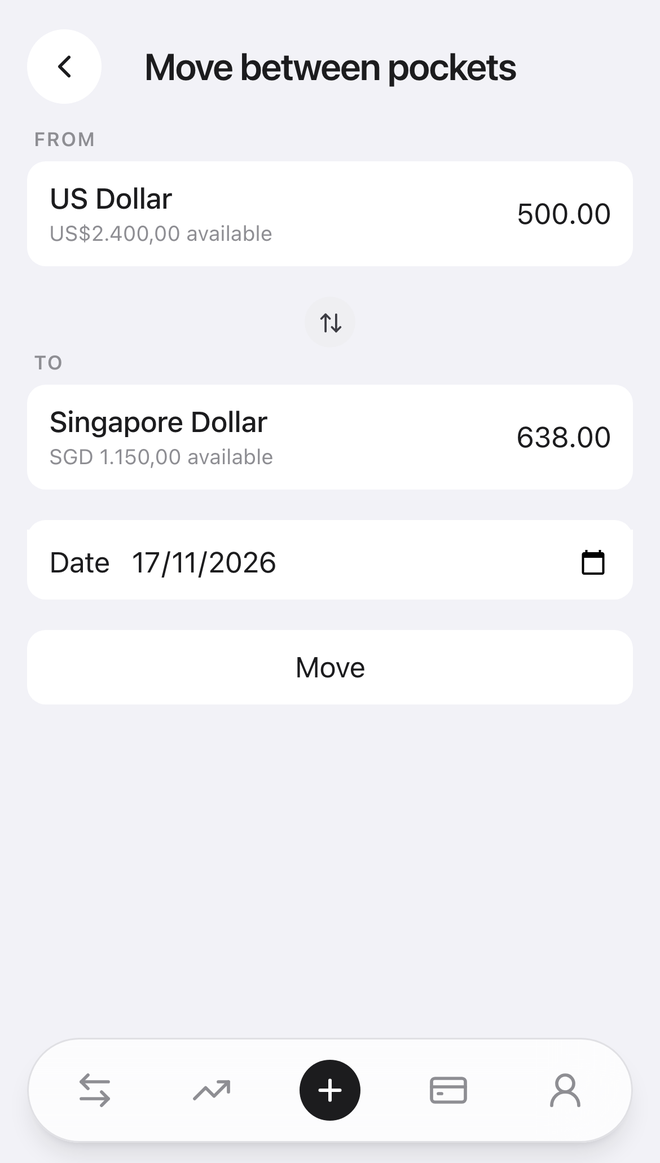
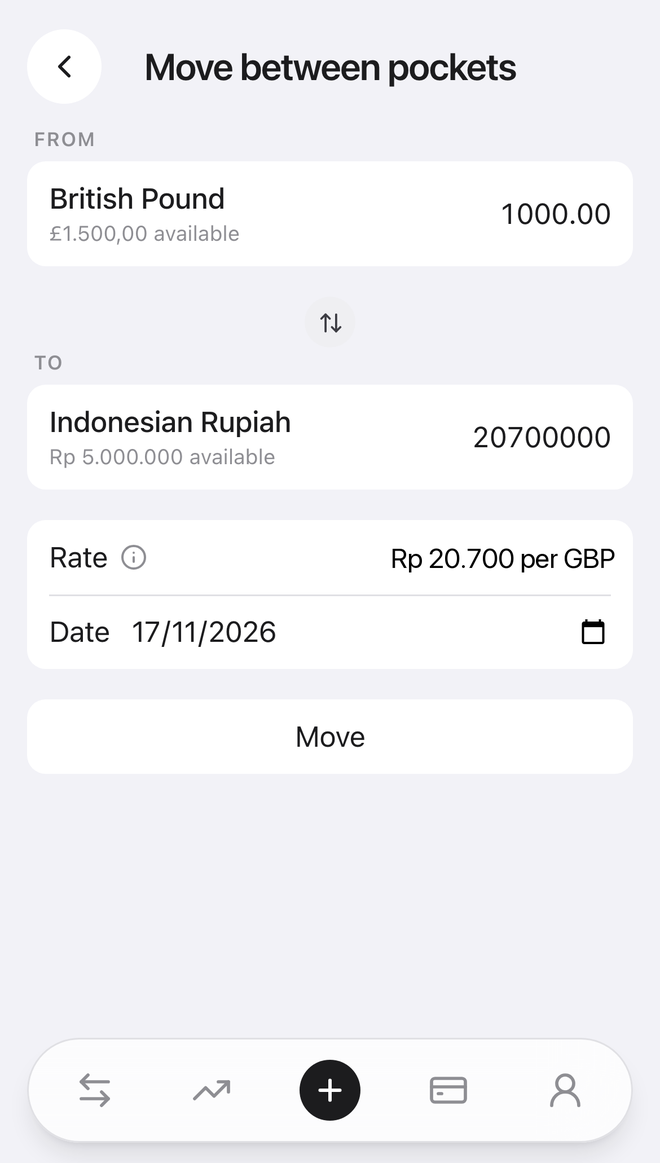
Mockups: Move between pockets before/after (real), and three tighter layouts A/B/C

diff --git a/docs/mockups/2026-11-17-move-pockets-layout.html b/docs/mockups/2026-11-17-move-pockets-layout.html
@@ -1,0 +1,64 @@
+<!doctype html><html><head><meta charset="utf-8"><title>Move page layouts</title><style>
+body{margin:0;padding:24px;font:15px -apple-system,system-ui,sans-serif;background:#e5e5ea;color:#000}
+h1{font-size:22px;margin:0 0 4px}.sub{color:#555;margin:0 0 18px;max-width:1150px;line-height:1.45}
+.row{display:flex;gap:22px;flex-wrap:wrap;align-items:flex-start}.col{width:330px}.cap{font-weight:700;margin:0 0 4px}.note{font-size:13px;color:#555;margin:0 0 10px;min-height:54px;line-height:1.4}
+.shot{width:330px;border-radius:24px;box-shadow:0 1px 3px rgba(0,0,0,.15);display:block}
+.lab{display:inline-block;font-size:10px;font-weight:800;color:#fff;border-radius:4px;padding:1px 6px;margin-right:6px;vertical-align:2px}.t{background:#8e8e93}.n{background:#1a7f37}
+.ph{width:390px;zoom:.846;background:#f2f2f7;border-radius:28px;box-shadow:0 1px 3px rgba(0,0,0,.15);padding:14px 0 0;height:688px;box-sizing:border-box;position:relative;overflow:hidden;font-size:17px}
+.hd{display:flex;align-items:center;gap:16px;padding:0 12px 18px}.hd b{font-size:22px;font-weight:600}.circ{width:44px;height:44px;border-radius:50%;background:#fff;display:flex;align-items:center;justify-content:center;font-size:20px}
+.pn{background:#fff;border-radius:14px;margin:0 12px}
+.box{display:flex;align-items:center;padding:10px 14px;min-height:44px}.box .g{flex:1;min-width:0}.s{font-size:13px;color:#8e8e93}.amt{font-size:19px;font-variant-numeric:tabular-nums}
+.swap{width:32px;height:32px;border-radius:50%;background:#e4e4e9;display:flex;align-items:center;justify-content:center;font-size:15px;margin:0 auto}
+.kv{display:flex;align-items:center;padding:0 14px;min-height:48px}.kv+.kv{border-top:.5px solid #d8d8dc}.kv span:first-child{flex:1}.gr{color:#8e8e93}
+.btn{background:#fff;border-radius:14px;margin:14px 12px 0;text-align:center;padding:14px 0}
+.dock{position:absolute;left:12px;right:12px;bottom:14px;height:64px;border-radius:32px;background:#fff;box-shadow:0 2px 10px rgba(0,0,0,.08);display:flex;align-items:center;justify-content:space-around;color:#3c3c43;font-size:22px}
+.dock i{width:40px;height:40px;border-radius:50%;background:#111;color:#fff;font-style:normal;display:flex;align-items:center;justify-content:center}
+.fi{width:30px;height:30px;border-radius:50%;background:#f0f0f3;display:flex;align-items:center;justify-content:center;font-size:15px;flex-shrink:0;margin-right:12px}
+.fr{display:flex;align-items:stretch;padding-left:14px}.fr .fi{align-self:center}.fr .c{flex:1;display:flex;align-items:center;min-height:50px;padding-right:14px}.fr+.fr .c{border-top:.5px solid #d8d8dc}
+.pair{display:flex;align-items:center;flex:1;gap:10px}.pair .bar{width:1px;height:26px;background:#d8d8dc}
+.step{display:flex;align-items:center;gap:8px;flex:1}.step span{background:#f0f0f3;border-radius:10px;padding:7px 0;flex:1;text-align:center;font-size:15px}.step i{font-style:normal;width:30px;height:30px;border-radius:50%;background:#f0f0f3;display:flex;align-items:center;justify-content:center}
+</style></head><body>
+<h1>Move between pockets: three tighter layouts</h1>
+<p class="sub">Invented example: BCA with a GBP pocket (£1.500) and an IDR pocket (Rp 5.000.000); £1.000 out, Rp 20.700.000 in. All three: no FROM / TO words above the boxes, slimmer boxes, a wider gap with the swap between them, amounts written with dots, Rate as "Rp 20.700 per GBP" (BCA's rate, from the two amounts), Cost and Exchange gone. The first picture is today's real screen.</p>
+<div class="row">
+ <div class="col"><p class="cap"><span class="lab t">TODAY (144)</span>Real screen</p><p class="note">FROM / TO above tall boxes; amounts without dots.</p><img class="shot" src="move/now-144.png"></div>
+
+ <div class="col"><p class="cap"><span class="lab n">A</span>Two slim boxes, no labels</p><p class="note">The ⇅ between the boxes shows the direction; nothing above them. Closest to today.</p>
+  <div class="ph">
+   <div class="hd"><span class="circ">‹</span><b>Move between pockets</b></div>
+   <div class="pn"><div class="box"><div class="g">British Pound<div class="s">£1.500,00 available</div></div><span class="amt">1.000,00</span></div></div>
+   <div style="padding:18px 0"><div class="swap">⇅</div></div>
+   <div class="pn"><div class="box"><div class="g">Indonesian Rupiah<div class="s">Rp 5.000.000 available</div></div><span class="amt">20.700.000</span></div></div>
+   <div class="pn" style="margin-top:22px"><div class="kv"><span>Rate <span class="gr">ⓘ</span></span><span>Rp 20.700 per GBP</span></div><div class="kv"><span>Date</span><span>17/11/2026 &nbsp;▦</span></div></div>
+   <div class="btn">Move</div>
+   <div class="dock"><span>⇆</span><span>↗</span><i>＋</i><span>▭</span><span>◯</span></div>
+  </div></div>
+
+ <div class="col"><p class="cap"><span class="lab n">B</span>One box, swap on the line</p><p class="note">Both pockets in one box; the ⇅ sits on the line between them. "From" / "To" as the grey word under each name.</p>
+  <div class="ph">
+   <div class="hd"><span class="circ">‹</span><b>Move between pockets</b></div>
+   <div class="pn" style="position:relative">
+    <div class="box" style="min-height:58px"><div class="g">British Pound<div class="s">From · £1.500,00 available</div></div><span class="amt">1.000,00</span></div>
+    <div style="border-top:.5px solid #d8d8dc;margin:0 14px"></div>
+    <div class="swap" style="position:absolute;left:50%;top:50%;transform:translate(-50%,-50%);background:#fff;border:.5px solid #d8d8dc">⇅</div>
+    <div class="box" style="min-height:58px"><div class="g">Indonesian Rupiah<div class="s">To · Rp 5.000.000 available</div></div><span class="amt">20.700.000</span></div>
+   </div>
+   <div class="pn" style="margin-top:22px"><div class="kv"><span>Rate <span class="gr">ⓘ</span></span><span>Rp 20.700 per GBP</span></div><div class="kv"><span>Date</span><span>17/11/2026 &nbsp;▦</span></div></div>
+   <div class="btn">Move</div>
+   <div class="dock"><span>⇆</span><span>↗</span><i>＋</i><span>▭</span><span>◯</span></div>
+  </div></div>
+
+ <div class="col"><p class="cap"><span class="lab n">C</span>Like the Transfer screen</p><p class="note">The same rows as ＋ › Transfer: ↗ From, ↙ To, both amounts on one row, Rate, the ‹ date › stepper.</p>
+  <div class="ph">
+   <div class="hd"><span class="circ">‹</span><b>Move between pockets</b></div>
+   <div class="pn">
+    <div class="fr"><span class="fi">↗</span><div class="c"><span style="flex:1">British Pound</span><span class="gr" style="font-size:15px">From ›</span></div></div>
+    <div class="fr"><span class="fi">↙</span><div class="c"><span style="flex:1">Indonesian Rupiah</span><span class="gr" style="font-size:15px">To ›</span></div></div>
+    <div class="fr"><span class="fi">🇬🇧</span><div class="c"><div class="pair"><span><span class="gr" style="font-size:14px">GBP</span> 1.000,00</span><span class="bar"></span><span><span class="gr" style="font-size:14px">IDR</span> 20.700.000</span></div></div></div>
+    <div class="fr"><span class="fi">%</span><div class="c"><span style="flex:1">Rate</span><span>Rp 20.700 per GBP</span></div></div>
+    <div class="fr"><span class="fi">▦</span><div class="c"><div class="step"><i>‹</i><span>Tue, 17 Nov 2026</span><i>›</i></div></div></div>
+   </div>
+   <div class="btn">Move</div>
+   <div class="dock"><span>⇆</span><span>↗</span><i>＋</i><span>▭</span><span>◯</span></div>
+  </div></div>
+</div></body></html>

diff --git a/docs/mockups/2026-11-17-move-pockets.html b/docs/mockups/2026-11-17-move-pockets.html
@@ -1,13 +1,14 @@
 <!doctype html><html><head><meta charset="utf-8"><title>Move between pockets</title><style>
 body{margin:0;padding:24px;font:15px -apple-system,system-ui,sans-serif;background:#e5e5ea}
-h1{font-size:22px;margin:0 0 4px}.sub{color:#555;margin:0 0 18px;max-width:900px;line-height:1.45}
-.row{display:flex;gap:24px;flex-wrap:wrap}.col{width:330px}.cap{font-weight:700;margin:0 0 4px}.note{font-size:13px;color:#555;margin:0 0 10px;min-height:36px;line-height:1.4}
+h1{font-size:22px;margin:0 0 4px}.sub{color:#555;margin:0 0 18px;max-width:1050px;line-height:1.45}
+.row{display:flex;gap:24px;flex-wrap:wrap}.col{width:330px}.cap{font-weight:700;margin:0 0 4px}.note{font-size:13px;color:#555;margin:0 0 10px;min-height:54px;line-height:1.4}
 img{width:330px;border-radius:24px;box-shadow:0 1px 3px rgba(0,0,0,.15);display:block}
 .lab{display:inline-block;font-size:10px;font-weight:800;color:#fff;border-radius:4px;padding:1px 6px;margin-right:6px;vertical-align:2px}.t{background:#8e8e93}.n{background:#1a7f37}
 </style></head><body>
-<h1>Move between pockets: the Rate row</h1>
-<p class="sub">The Move screen is for one account that holds several currencies (pockets), e.g. a "Valas" account with USD and SGD: wallet › the account › Move. Invented example: move US$500 to the SGD pocket, S$638 arrives. Build 144 already removed the Cost and Exchange loss lines here; one Rate row is left. A transfer from GBP BCA to IDR BCA (two accounts) uses the Transfer screen, not this one.</p>
+<h1>Move between pockets: Rate and Date stay, Cost and Exchange go</h1>
+<p class="sub">For one account holding several currencies (pockets), e.g. BCA with a GBP pocket and an IDR pocket: Wallet › the account › Move. Invented example: £1.000 out of the GBP pocket, Rp 20.700.000 into the IDR pocket. The Rate is worked out from the two amounts typed — so it is BCA's own rate. All three are real screenshots; the third has only the Rate text changed.</p>
 <div class="row">
- <div class="col"><p class="cap"><span class="lab t">TODAY (144)</span>Move between pockets</p><p class="note">Rate row: 1 USD = 1,2760 SGD, worked out from the two amounts.</p><img src="move/today-move.png"></div>
- <div class="col"><p class="cap"><span class="lab n">AFTER</span>Move between pockets</p><p class="note">No Rate row; only the date. Same as Transfer: nothing under the amounts while typing.</p><img src="move/after-move.png"></div>
+ <div class="col"><p class="cap"><span class="lab t">BEFORE (143)</span>Move between pockets</p><p class="note">Rate · Date, then Cost and "Exchange loss Rp 300.000 (recorded as spending)".</p><img src="move/before-143.png"></div>
+ <div class="col"><p class="cap"><span class="lab t">NOW (144)</span>Move between pockets</p><p class="note">Cost and Exchange already gone. Rate reads "1 GBP = 20.700,0000 IDR".</p><img src="move/now-144.png"></div>
+ <div class="col"><p class="cap"><span class="lab n">AFTER</span>Move between pockets</p><p class="note">Same as 144, Rate written like the receipt: "Rp 20.700 per GBP".</p><img src="move/after-move.png"></div>
 </div></body></html>
